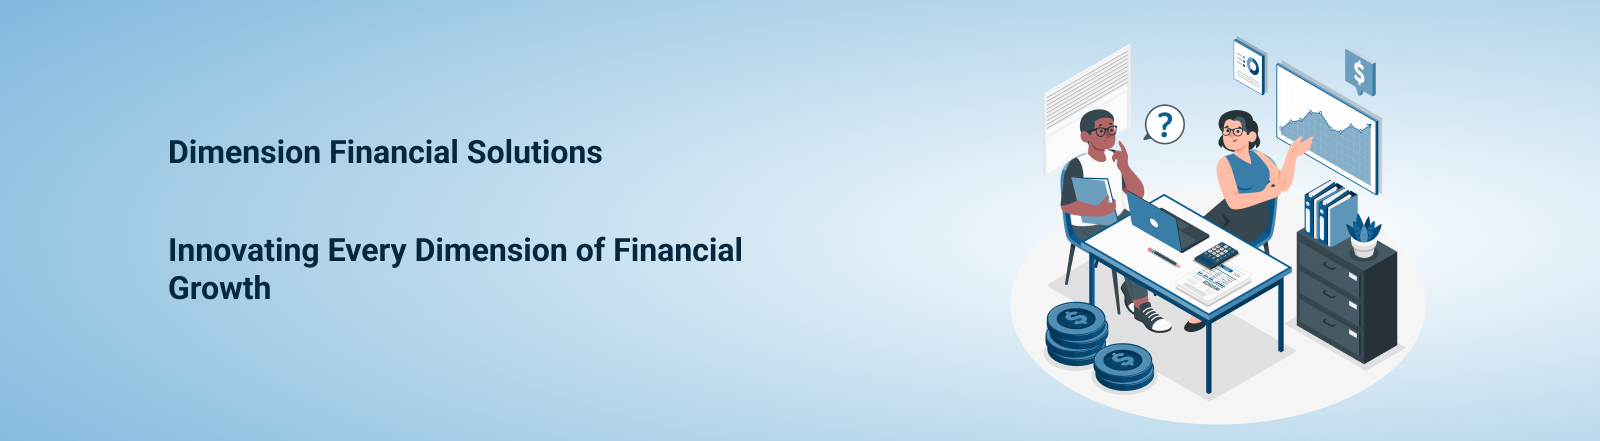
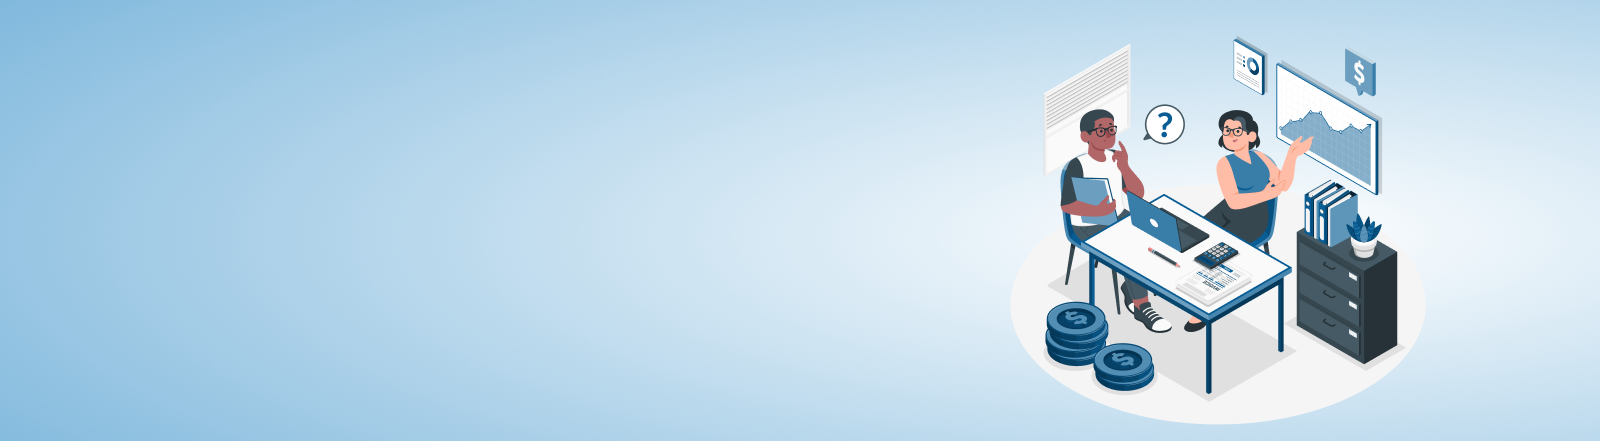
"Updated about-us.html, additional.css, style.css, and index.html with changes to layout, styling, and content. Added new image files and modified existing ones."

Changed region(s): [[0.0938, 0.5306, 0.4688, 0.619], [0.0938, 0.3243, 0.375, 0.3832], [0.0938, 0.619, 0.1875, 0.678]]

diff --git a/about-us.html b/about-us.html
@@ -64,17 +64,22 @@
         <h3>About us</h3>
         <img src="images/logo.svg" alt="" class="img_inner fleft">
         <div class="extra_wrapper" style="color: black;">
-          <p class="text1">Dimension Financial Solutions Private Limited was formed by professionals in field of finance
+          <p class="text1">
+            <span style="color: black; font-weight: 600;">
+              Dimension Financial Solutions Private Limited
+            </span>
+
+            was formed by professionals in field of finance
             and industry with an objective to provide comprehensive range of financial services to business enterprise
             in India.
-          </p>
-          Dimension Financial Solutions Private Limited was established by experienced professionals in the finance
-          industry with the objective of providing a comprehensive range of financial services to businesses across
+            Dimension Financial Solutions Private Limited was established by experienced professionals in the finance
+            industry with the objective of providing a comprehensive range of financial services to businesses across
           India.
+          <br>
           <br>
           The company is a Securities and Exchange Board of India (SEBI)-registered stockbroker under the BSE New Debt
           Segment, specializing in the debt market and offering a wide range of financial products.
-
+          
           Dimension Financial Solutions Private Limited provides end-to-end personalized investment management services,
           including planning, advisory, execution, and monitoring, to help clients achieve their financial goals
           efficiently.
@@ -84,6 +89,7 @@
           debt placement and marketing of public issues of debt and equity. The current board of directors includes high
           experienced professionals in the field of merchant banking, debt advisory, private placement of bonds and
           debentures.
+        </p>
           <div class="clear"></div>
         </div>
       </div>
@@ -170,7 +176,7 @@
       <div class="grid_6 animation-right">
         <h3 class="head1">Leadership</h3>
         <div class="block1">
-          <img src="images/favicon.ico" alt="" class="img_inner fleft f1">
+          <img style="width: 100%;" src="images/icon.png" alt="" class="img_inner fleft f1">
           <div class="extra_wrapper">
             <div class="text1"><a href="#">Vivek Gautam</a></div>
             Director

diff --git a/index.html b/index.html
@@ -6,7 +6,7 @@
 	<meta charset="utf-8">
 	<meta name="format-detection" content="telephone=no" />
 	<link rel="icon" href="images/icon.png">
-	
+
 	<link rel="stylesheet" href="css/camera.css">
 	<link rel="stylesheet" href="css/owl.carousel.css">
 	<link rel="stylesheet" href="css/style.css">
@@ -104,8 +104,16 @@
 		</div>
 
 	</header>
-	<div style="height: 60vh; width: 100%;">
-		<img style="height: 100%; width: 100%;" src="images/slide.png" alt="">
+	<div class="hero-container">
+		<div id="text">
+			<p>Dimension Financial Solutions</p>
+			<p>Innovating Every Dimension of <br>
+				<br> Financial Growth</p>
+
+		</div>
+		<div>
+			<img src="images/hero.png" alt="">
+		</div>
 	</div>
 	<!-- <div class="slider_wrapper">
 		<div id="camera_wrap" class="">
@@ -124,14 +132,16 @@
 				<div class="grid_4">
 					<img src="images/icon2.png" alt="">
 					<div class="title"><a href="#">Debt Advisory Services</a></div>
-					<p>Optimize your capital structure with our expert Debt Advisory services, providing solutions to
+					<p>Optimize your capital structure with our expert Debt Advisory services, providing
+						solutions to
 						manage debt efficiently and improve financial stability. </p>
 				</div>
 
 				<div class="grid_4">
 					<img src="images/icon1.png" alt="">
 					<div class="title"><a href="#">Financial Advisory</a></div>
-					<p>Empower your financial decisions with our expert Financial Advisory services, offering strategic
+					<p>Empower your financial decisions with our expert Financial Advisory services, offering
+						strategic
 						guidance
 						to help you achieve sustainable growth </p>
 				</div>
@@ -139,7 +149,8 @@
 				<div class="grid_4">
 					<img src="images/icon3.png" alt="">
 					<div class="title"><a href="https://bondsadda.com">Bonds</a></div>
-					<p>Secure your investments with stable returns through our expertly managed bond options, tailored
+					<p>Secure your investments with stable returns through our expertly managed bond options,
+						tailored
 						to
 						meet
 						your financial goals.</p>

diff --git a/css/additional.css b/css/additional.css
@@ -1,5 +1,5 @@
-.top{
-    height:32px;
+.top {
+    height: 32px;
     width: 100%;
     background-color: #379BD6;
     display: flex;
@@ -11,5 +11,21 @@
     font-size: 14px;
 }
 
+.hero-container {
+    height: 60vh;
+    width: 100%;
+    display: flex;
+    justify-content: space-evenly;
+    align-items: center;
+    background-color: #f5f5f5;
+}
 
-
+.hero-container #text {
+    height: 40%;
+    font-weight: 600;
+    font-size: 32px;
+    display: flex;
+    flex-direction: column;
+    justify-content: space-between;
+    color: #04273E;
+}

diff --git a/css/style.css b/css/style.css
@@ -352,11 +352,12 @@ header h1 a img {
 
 .text1 {
 	font-size: 14px;
-	color: #0f0f0f;
+	color: #1d1d1d;
 	font-family: 'Open Sans', sans-serif;
-	line-height: 16px;
+	line-height: 24px;
 	margin-bottom: 5px;
-	font-weight: 500;
+	text-align: justify;
+	/* font-weight: 500; */
 }
 
 p.text1 {
